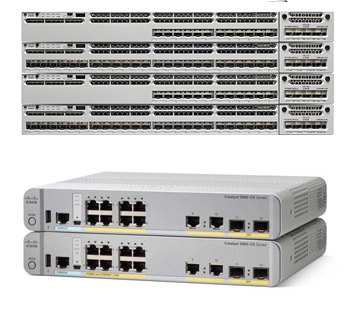
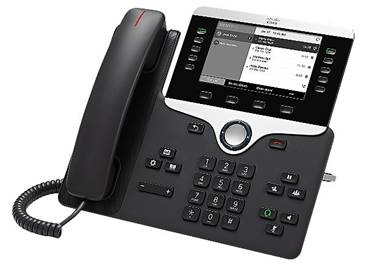
change cisco image

diff --git a/templates/posrg/css/style.css b/templates/posrg/css/style.css
@@ -2477,14 +2477,14 @@ body.preferred-partners #content #main {
 }
 .pp-cisco {
 	min-height: 280px;
-    padding-right: 400px;
+    padding-right: 420px;
     padding-top: 25px;
     position: relative;
 }
 .pp-cisco .product-image {
 	position: absolute;
 	right: 44px;
-	top: 0;
+	top: 28px;
 	height: auto;
 }
 
